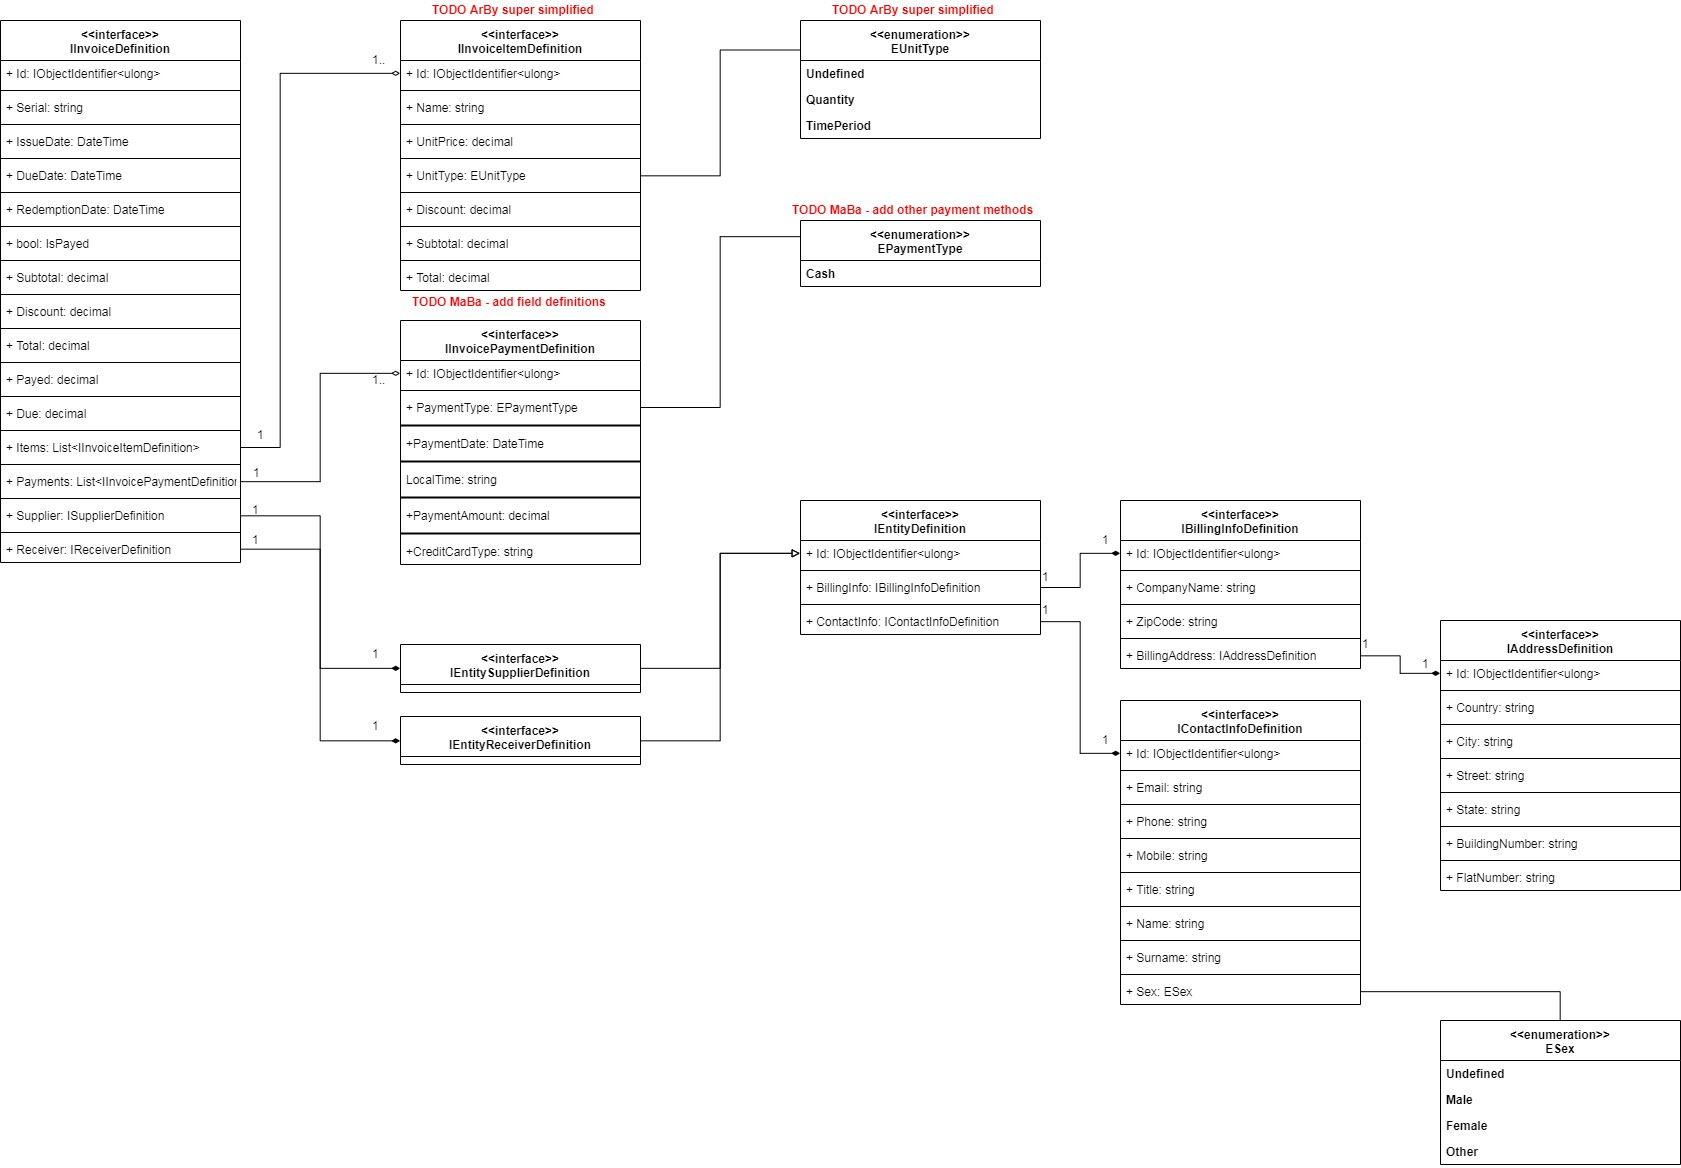
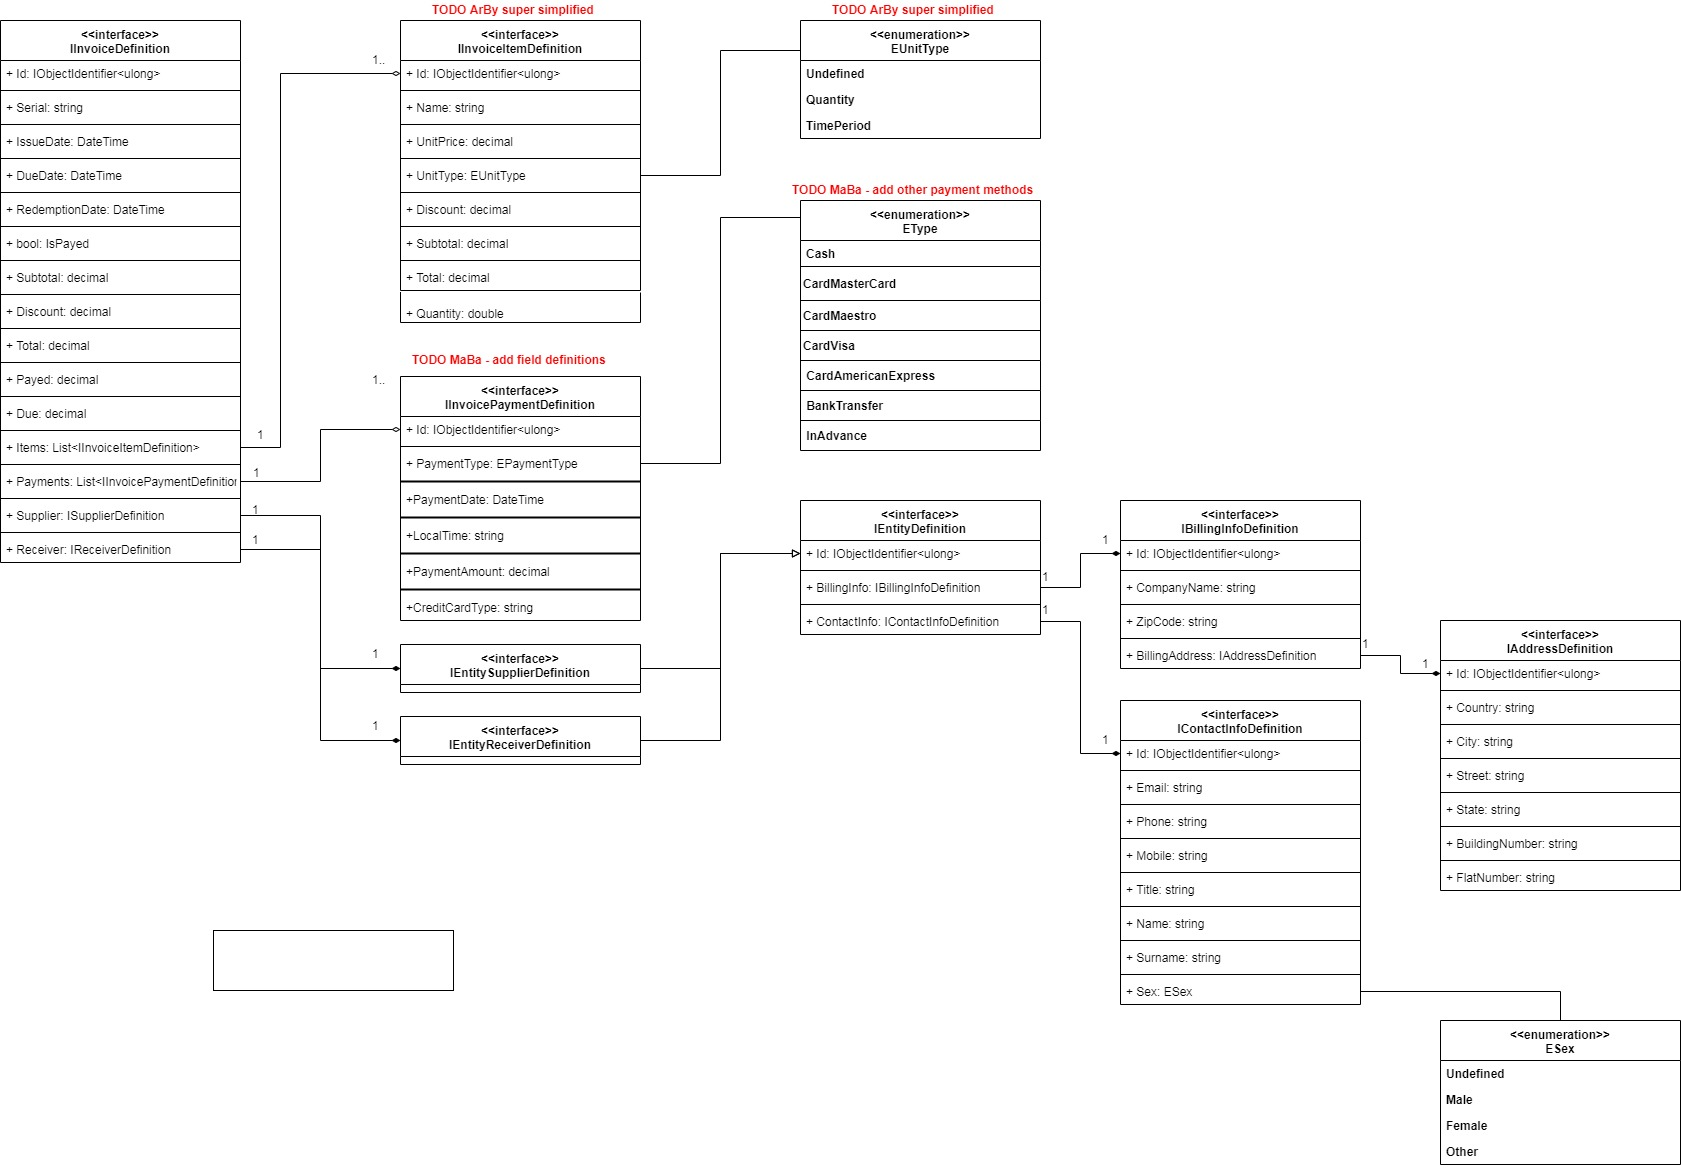
added all requested changes into invoicePayment

Changed region(s): [[0.2475, 0.2466, 0.3712, 0.524], [0.464, 0.1541, 0.6187, 0.4007]]

diff --git a/InvoiceManagementStudio/Core/Definition/Payment/IInvoicePaymentDefinition.cs b/InvoiceManagementStudio/Core/Definition/Payment/IInvoicePaymentDefinition.cs
@@ -16,22 +16,22 @@ namespace InvoiceManagementStudio.Core.Definition.Payment
         /// <summary>
         /// Specifies payment methods
         /// </summary>
-        EType PaymentType { get; }
+        EType Type { get; }
 
         /// <summary>
         /// The date payment was posted
         /// </summary>
-        DateTime PaymentDate { get; }
+        DateTime Date { get; }
 
         /// <summary>
         /// Specifies Time zone
         /// </summary>
-        string LocalTime { get; }
+        TimeZoneInfo TimeZone { get; }
 
         /// <summary>
         /// Amount of the money posted (need to be compared with Total payment)
         /// </summary>
-        decimal PaymentAmount { get; }
+        decimal Amount { get; }
 
         /// <summary>
         /// Brand of the credit card used to issue payment

diff --git a/InvoiceManagementStudio/Core/Definition/Payment/EType.cs b/InvoiceManagementStudio/Core/Definition/Payment/EType.cs
@@ -13,7 +13,14 @@ namespace InvoiceManagementStudio.Core.Definition.Payment
     public enum EType
     {
         Cash,
-        CreditCard,
+
+        #region BankCards
+        CardMasterCard,
+        CardMaestro,
+        CardVisa,
+        CardAmericanExpress,
+        #endregion
+
         BankTransfer,
         InAdvance
 
